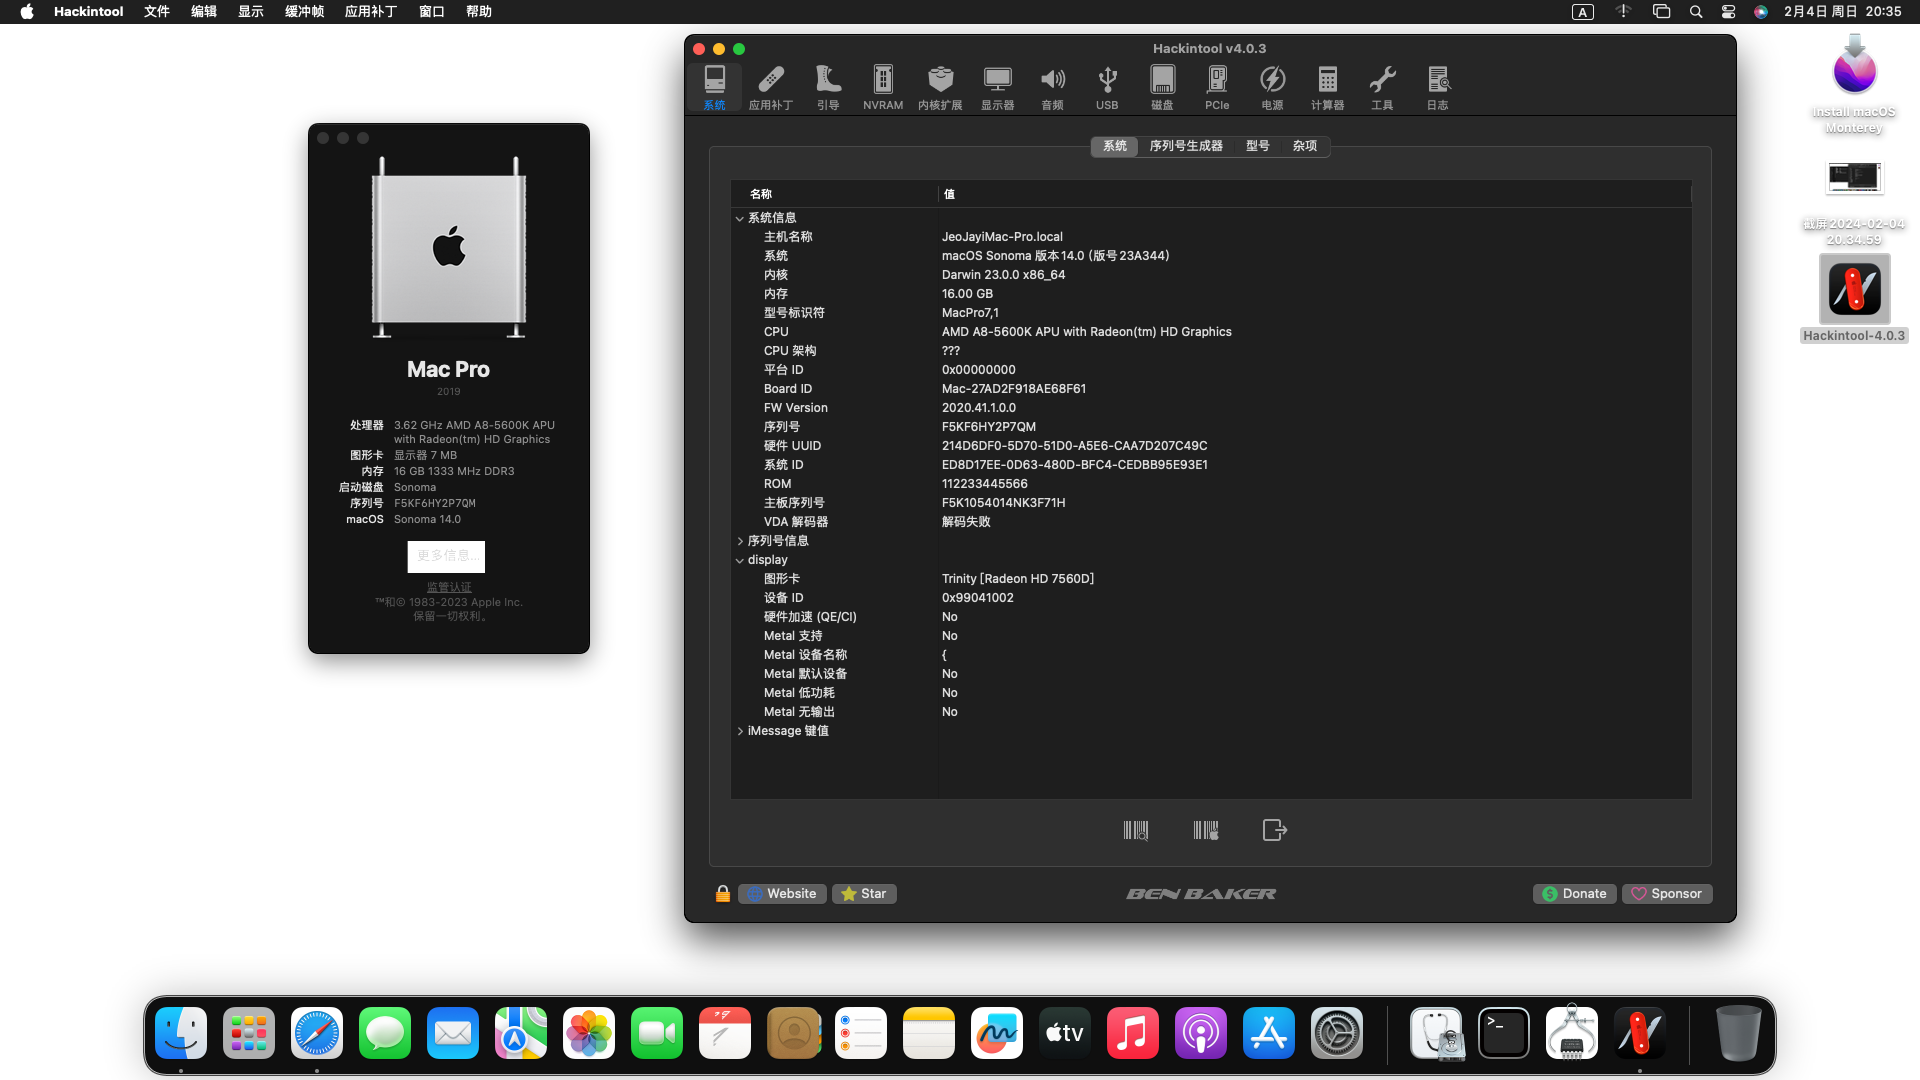
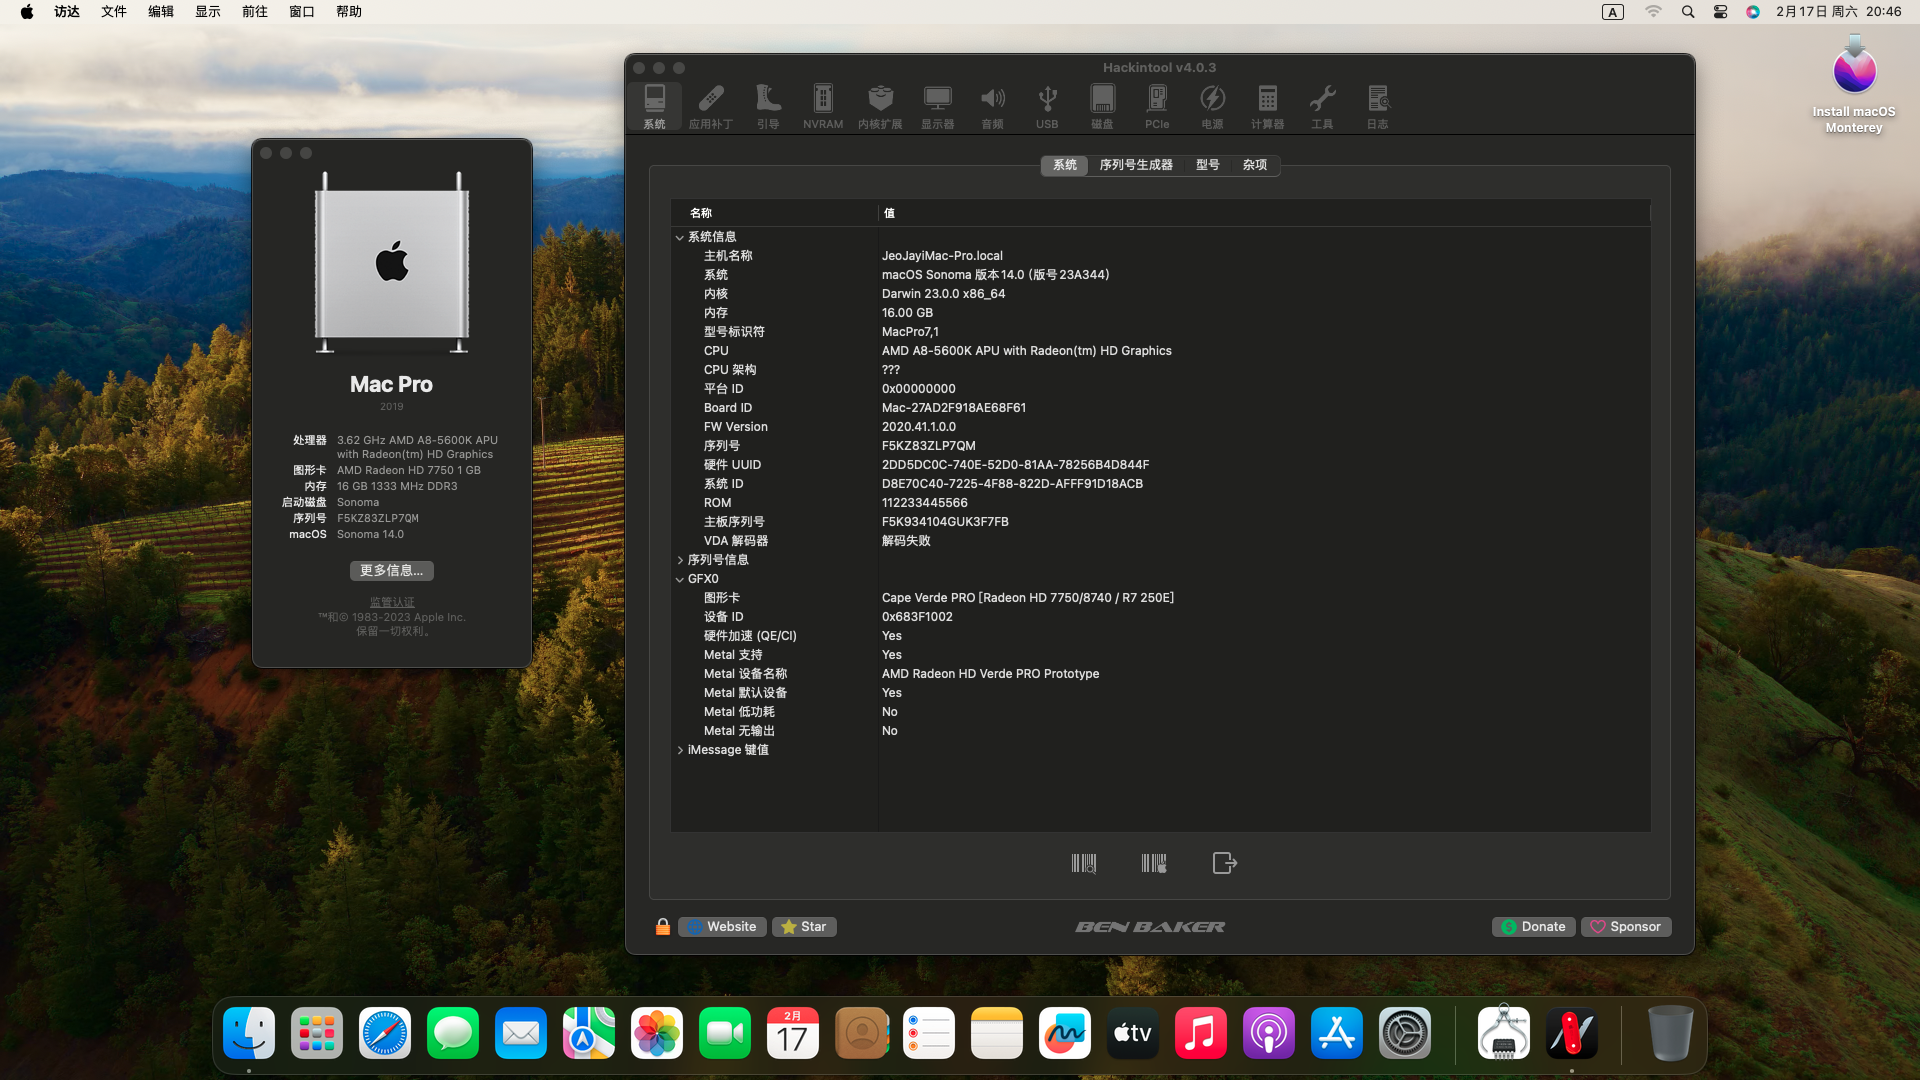
update res

diff --git a/README.md b/README.md
@@ -102,7 +102,7 @@ RapidEFI适合有点黑果基础的人群，至少你要懂得：
 软件中以CPU类型和CPU架构为准 
 
 #### 3）.如果你确认使用该工具配置EFI，请始终保持【初步精简，后期完善】原则，可以减少问题！
-尤其笔记本，别看见是笔记本可能适用，就添加（随便举个例子，例如:电池读数，自动亮度补丁，亮度快捷键，这些随便一个都有可能卡代码）.如果使用工具生成的EFI出现无法引导，自己按照OC指南可以引导，那可能是工具读取的静态配置文件个别填写错误，对，你没看错，大部分都是提前准备好的静态数据，所以存在手写填错的情况！建议贴平台配置，提issue(报告问题)！当然成功也可以进行反馈！
+尤其笔记本，别看见是笔记本可能适用，就添加,这些建议在安装完系统后再完善（随便举个例子，例如:电池读数，自动亮度补丁，亮度快捷键，这些随便一个都有可能卡代码）.如果使用工具生成的EFI出现无法引导，自己按照OC指南可以引导，那可能是工具读取的静态配置文件个别填写错误，对，你没看错，大部分都是提前准备好的静态数据，所以存在手写填错的情况！建议贴平台配置，提issue(报告问题)！当然成功也可以进行反馈！
 
 以下是部分粉丝自行折腾记录(挺佩服的)
 
@@ -118,7 +118,7 @@ RapidEFI适合有点黑果基础的人群，至少你要懂得：
 
 ## 7.RapidEFI配置的EFI是否完美？
 
-RapidEFI主要是根据官方OC指南制作的一款代替手动配置的工具而已，它很优秀，但它不是神！可以说没有人一开始就配置EFI就完美的，都是一步步完善的。如果你说有，我也不反驳，你自己多体会，多用用黑果吧。此外，黑苹果没有完美一说，它终究是黑果，只有接近完美之说！如果你坚持最求完美，那么请直接上白果！
+RapidEFI主要是根据官方OC指南制作的一款代替手动配置的工具而已，它很优秀，但它不是神！可以说没有人一开始就配置EFI就完美的，都是一步步完善的。如果你说有，我也不反驳，你自己多体会，多用用黑果吧。此外，黑苹果没有完美一说，它终究是黑果，只有接近完美之说！如果你坚持追求完美，那么请直接上白果！
 
 
 
@@ -144,7 +144,7 @@ Pro版本支持平台一览表：
 
 1.这里0代主要指的是台式机775老平台，笔记本Core 2系列老平台(官方并没有0代说法)
 
-2.Bulldozer(15h) and Jaguar(16h) 主要支持比如FM1，FM2, AM3速龙系列，推土机系列(FX6300,FX8300)
+2.Bulldozer(15h) and Jaguar(16h) 主要支持比如FM1，FM2, AM3速龙系列，推土机系列(FX6300,FX8300等处理器)
 
 #### RapidEFI普通版和RapidEFI-Pro区别在于：
 
@@ -182,10 +182,15 @@ X58老平台：
 
 
 
-AMD FM2平台：
+AMD FM2平台（A8-5600K+独显HD7750 ）：
+
 速龙X4 730，X4 760等都是支持的
 
+ macOS Monterey 12.7
+
 ![FM2-Monterey](images/Desktop-FM2-Monterey.png)
+
+ macOS Sonoma 14.0
 
 ![FM2-Sonoma](images/Desktop-FM2-Sonoma.png)
 
@@ -199,7 +204,7 @@ AMD FM2平台：
 
 ![3th](images/Desktop-3th.png)
 
-4代平台：
+4代平台(来自粉丝)：
 
 ![4th-1](images/Desktop-4th-1.jpg)
 
@@ -211,7 +216,7 @@ AMD FM2平台：
 
 
 
-8代平台：
+8代平台(来自粉丝)：
 
 ![8th](images/Desktop-8th.png)
 
@@ -223,14 +228,23 @@ AMD FM2平台：
 
 ### 笔记本
 
-1代平台【Aspire 3820ZG】
+0代(Core 2双核P8800 + GT320M)老笔记本【ASUS-K40ID】
+
+OpenCore-v0.9.8 模拟UEFI 安装macOS BigSur 11.7.7
+理论支持macOS Sonoma 14.x (配置比较老，粉丝也不想折腾更高版本了)
+
+![Laptop-Core2-P8800](images/Laptop-Core2-P8800.png)
+
+1代老笔记本【Aspire 3820ZG】
 
 ![laptop-1th-Ventura](images/laptop-1th-Ventura.png)
 
 ![laptop-1th-Sonoma](images/laptop-1th-Sonoma.png)
 
 3代平台【华硕笔记本】
+
 来自粉丝【瞌睡真的多】
+
 ![laptop-3th](images/laptop-3th.png)
 
 4代平台【联想X240】
@@ -275,7 +289,7 @@ AMD FM2平台：
 |   DG幸福数码(QQ:30xxxxx35)    |        |  20  |      |
 |    汉武雄风(QQ:23xxxxx92)     |        |  15  |      |
 |    Mr_Prince(QQ:71xxxxx92)    |        |  50  |      |
-|   DG幸福数码(QQ:29xxxxxx34)   |        |  50  |      |
+|    艺声之灵(QQ:29xxxxxx34)    |        |  50  |      |
 |   很久很久前(QQ:11xxxxxx83)   |        |  30  |      |
 |    麦兜兜（QQ:31xxxxx74）     |        |  15  |      |
 |    方波不方(QQ:27xxxxx96)     |        |  15  |      |
